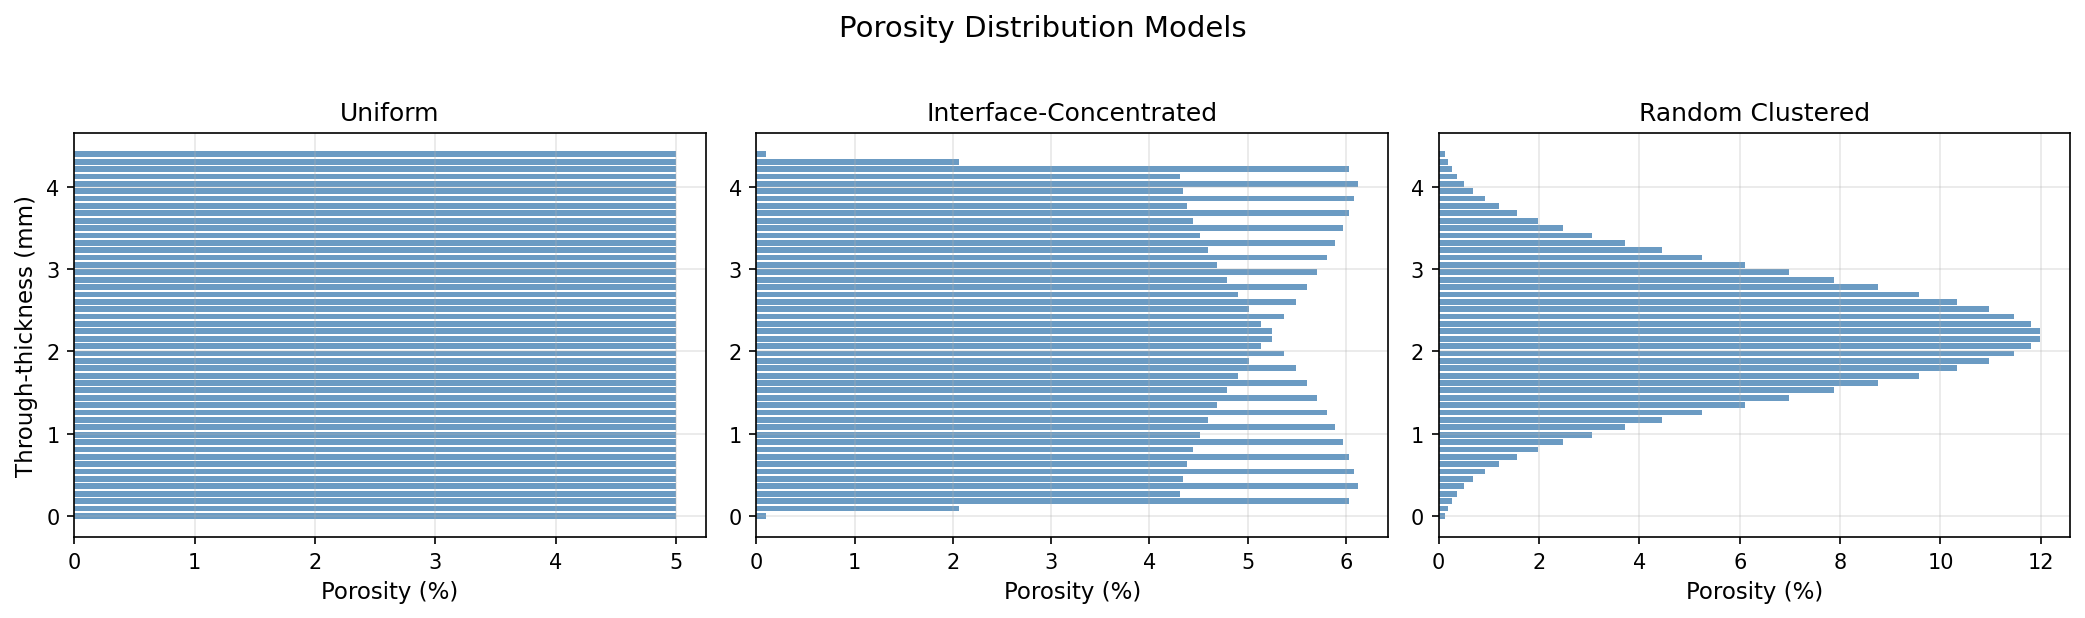
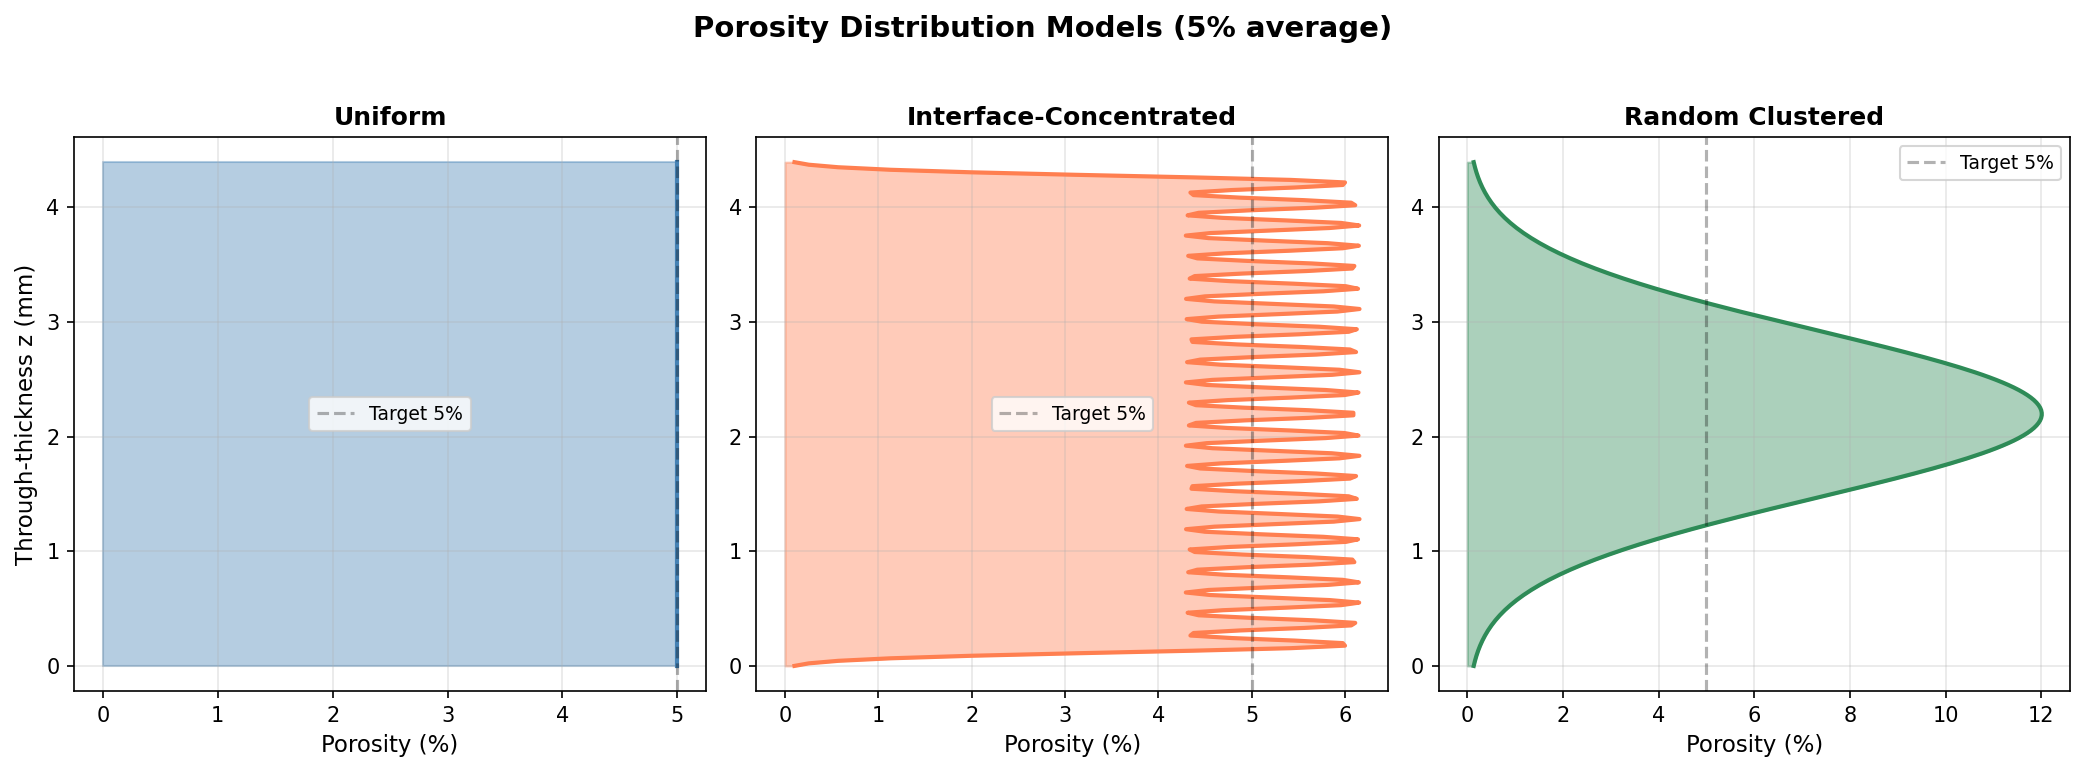
Improve README screenshots with colorful analysis plots
Replace blank wireframe/contour with:
- 4-panel knockdown curves (all loading modes with model comparison)
- Cross-section porosity contour + hex element diagram
- Void stress concentration field (cylindrical, aspect ratio 4.0)
- Through-thickness porosity distributions (filled area plots)

diff --git a/README.md b/README.md
@@ -33,11 +33,11 @@ Manufacturing defects like porosity are inevitable in composite structures. Engi
 ### Porosity Distribution Models
 ![Porosity Distributions](screenshots/porosity_distributions.png)
 
-### 3D Finite Element Mesh
-![3D Mesh](screenshots/mesh_3d.png)
+### Cross-Section Porosity Contour and Hex Element
+![Mesh Detail](screenshots/mesh_detail.png)
 
-### Damage Contour at Midplane
-![Damage Contour](screenshots/damage_contour.png)
+### Void Stress Concentration Field
+![Void SCF](screenshots/void_scf.png)
 
 ## Installation
 
